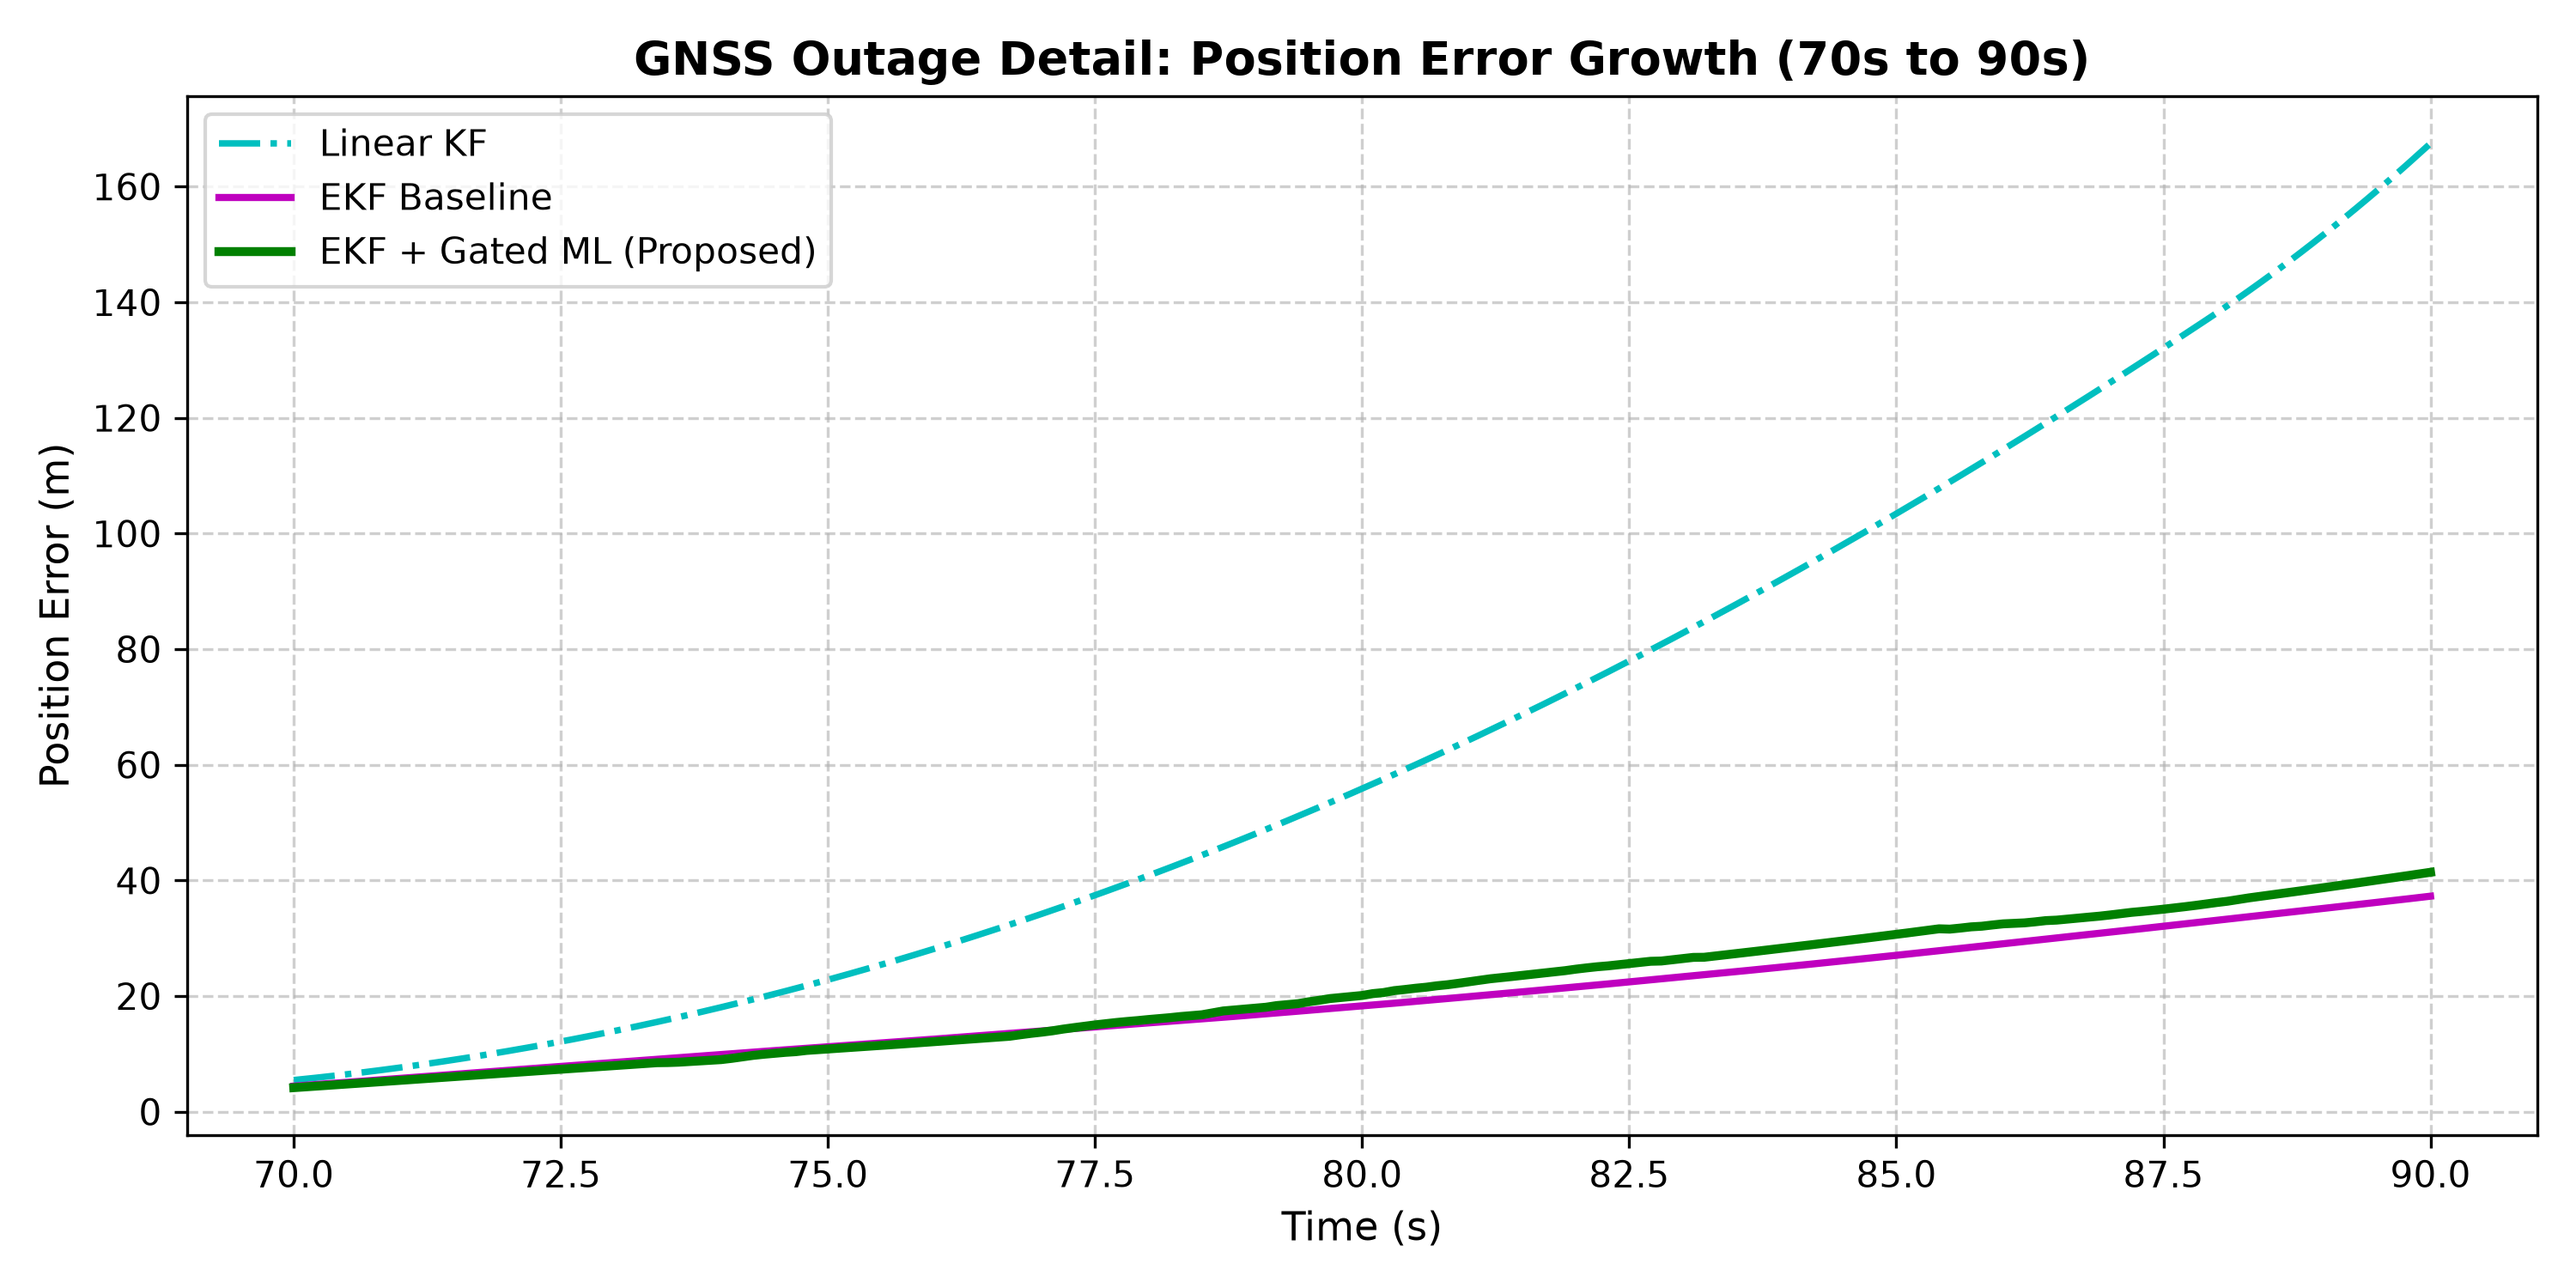
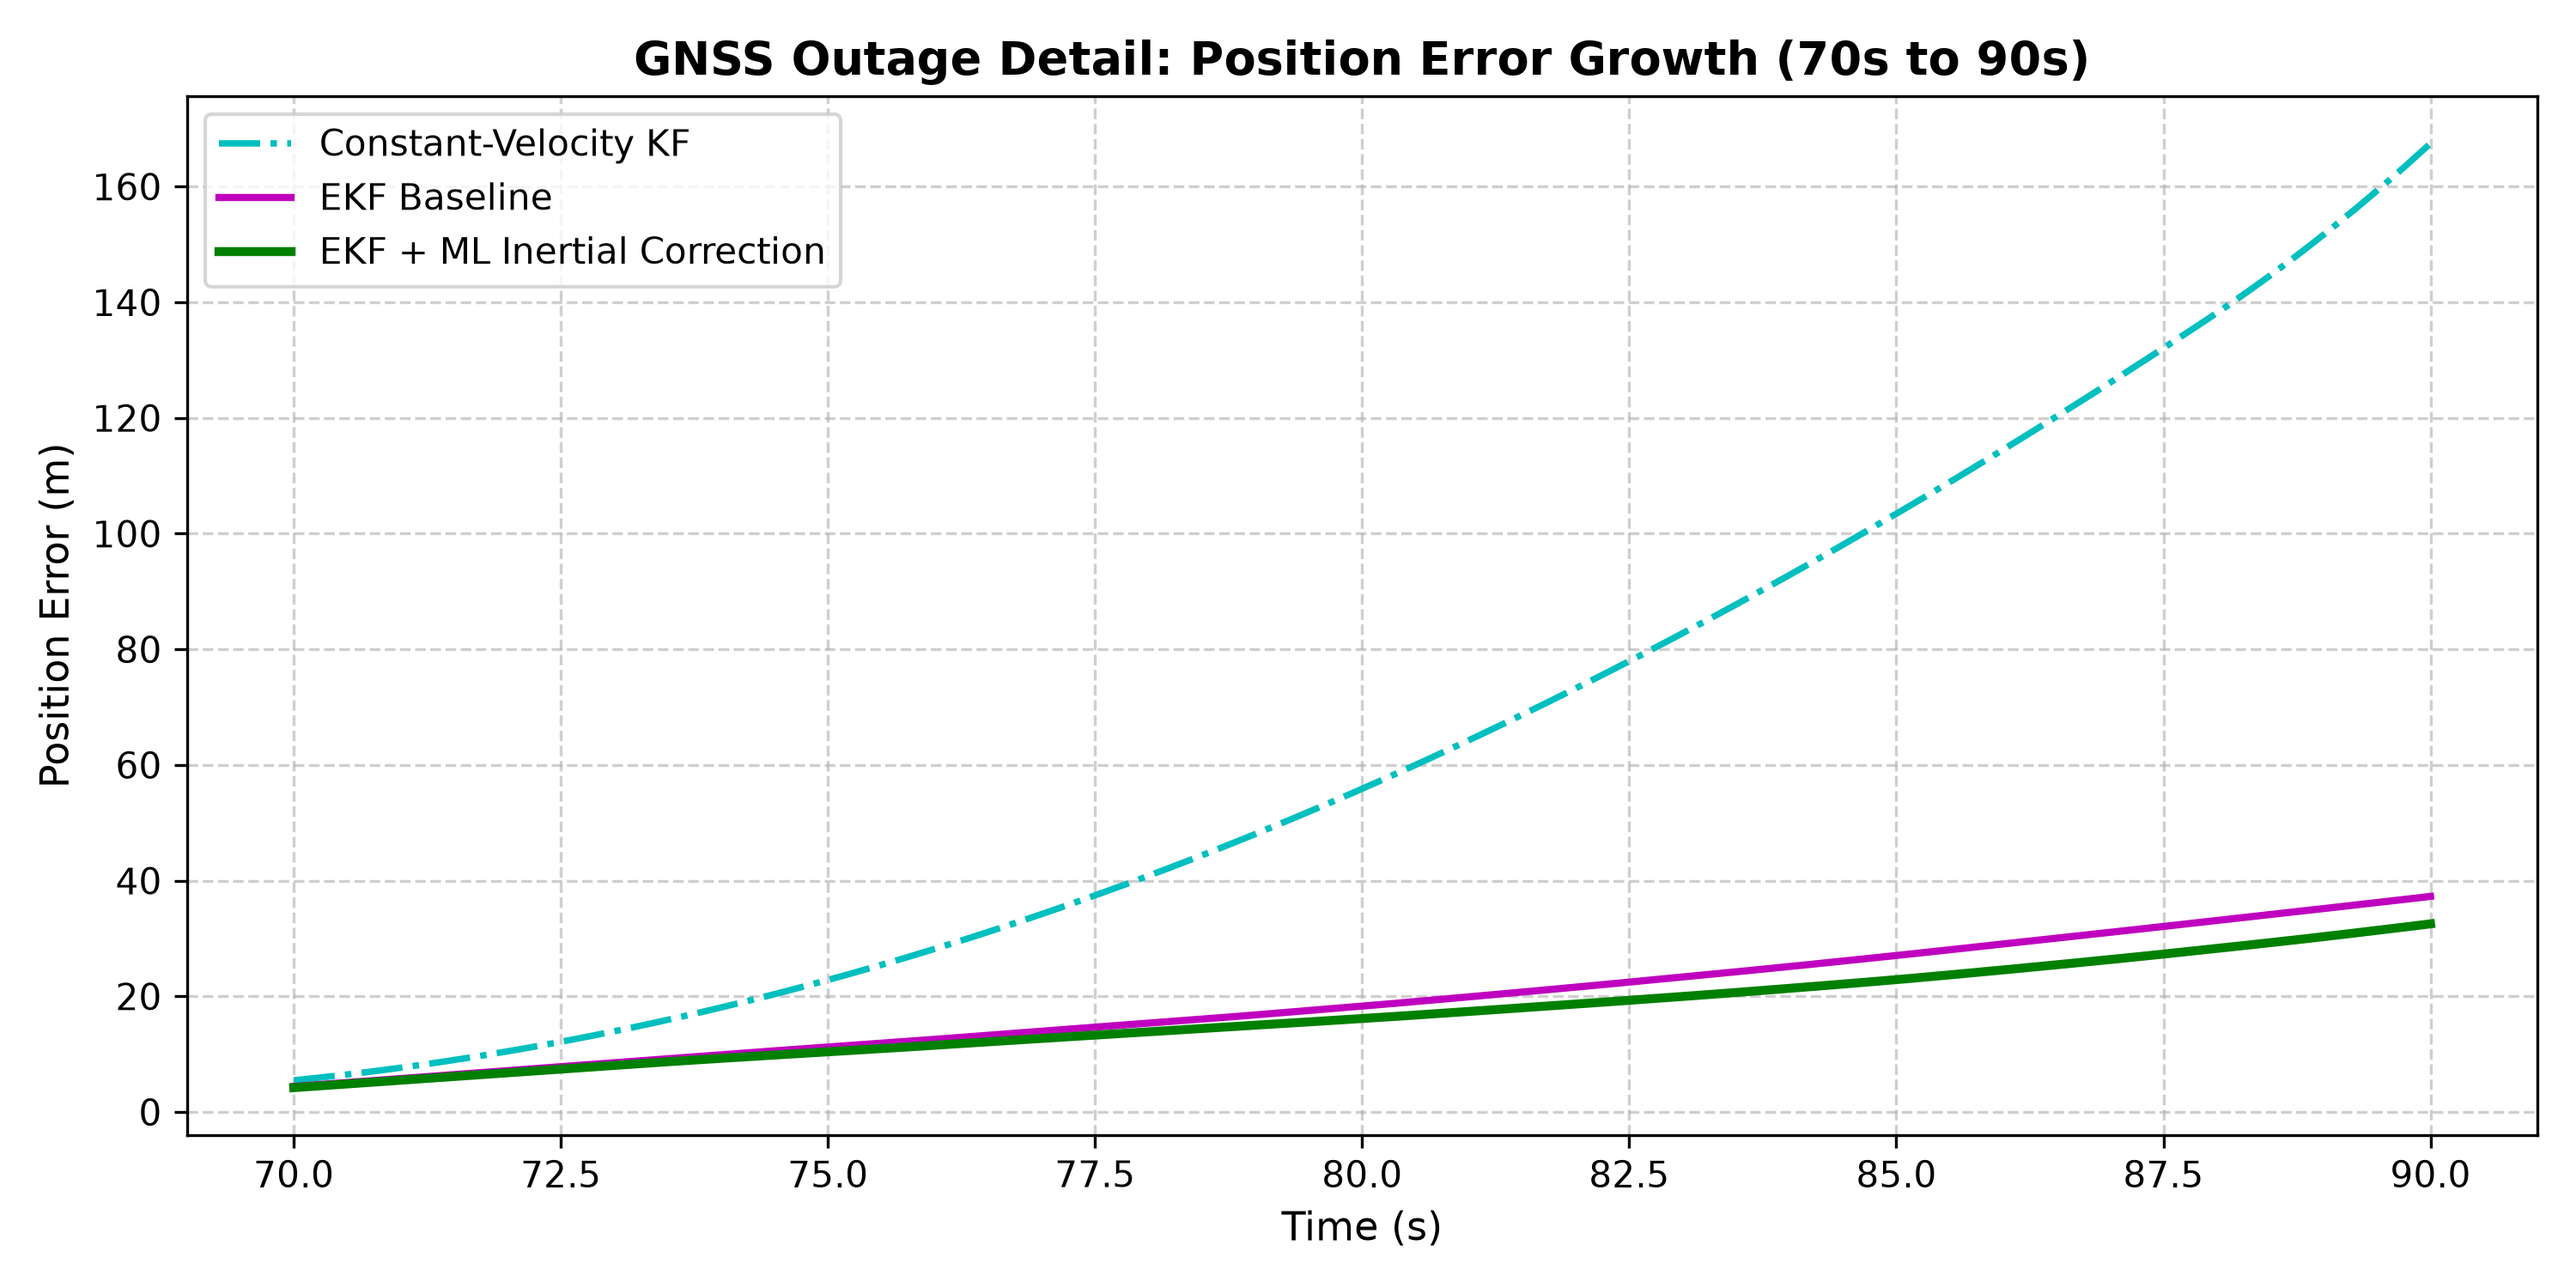
Finalize synthetic benchmark and ML inertial pipeline

Changed region(s): [[0.279, 0.6747, 0.961, 0.828], [0.155, 0.184, 0.341, 0.2147], [0.124, 0.092, 0.279, 0.1227]]

diff --git a/src/experiments/benchmark_comparison.py b/src/experiments/benchmark_comparison.py
@@ -457,7 +457,7 @@ def run_benchmark():
             "Outage RMSE (m)": np.sqrt(np.mean(err_dr[outage_mask] ** 2)),
             "Heading RMSE (deg)": np.degrees(np.sqrt(np.mean(((head_dr - true_heading + np.pi) % (2 * np.pi) - np.pi) ** 2)))
         },
-        "Linear KF": {
+        "Constant-Velocity KF": {
             "Overall RMSE (m)": np.sqrt(np.mean(err_kf ** 2)),
             "Max Error (m)": np.max(err_kf),
             "Final Error (m)": err_kf[-1],
@@ -513,13 +513,11 @@ def run_benchmark():
     plt.figure(figsize=(10, 8))
     plt.plot(true_x, true_y, "k-", linewidth=2.5, label="Ground Truth")
     plt.plot(pos_dr[:, 0], pos_dr[:, 1], "r--", alpha=0.7, label="Basic DR")
-    plt.plot(pos_kf[:, 0], pos_kf[:, 1], "c-.", alpha=0.8, label="Linear KF")
+    plt.plot(pos_kf[:, 0], pos_kf[:, 1], "c-.", alpha=0.8, label="Constant-Velocity KF")
     plt.plot(pos_ekf[:, 0], pos_ekf[:, 1], "m--", linewidth=1.8, label="EKF Baseline")
-    plt.plot(pos_ml[:, 0], pos_ml[:, 1], "g-", linewidth=2.0, label="EKF + Gated ML (Proposed)")
-    
+    plt.plot(pos_ml_pred[:, 0], pos_ml_pred[:, 1], "g-", linewidth=2.0, label="EKF + ML Inertial Correction")
     # Highlight outage segment
     plt.plot(true_x[outage_mask], true_y[outage_mask], "y-", linewidth=4.0, alpha=0.6, label="GNSS Outage Region")
-    
     plt.title("SUMARO: 2D Trajectory Comparison (GNSS Blackout 70–90s)", fontsize=13, fontweight="bold")
     plt.xlabel("X Position (m)", fontsize=11)
     plt.ylabel("Y Position (m)", fontsize=11)
@@ -529,30 +527,32 @@ def run_benchmark():
     plt.tight_layout()
     plt.savefig("reports/figures/trajectory_comparison.png", dpi=300)
     plt.close()
-    
+
     # Plot 2: Position Error vs Time
     plt.figure(figsize=(11, 5))
     plt.plot(time, err_dr, "r--", alpha=0.6, label="Basic DR")
-    plt.plot(time, err_kf, "c-.", alpha=0.8, label="Linear KF")
+    plt.plot(time, err_kf, "c-.", alpha=0.8, label="Constant-Velocity KF")
     plt.plot(time, err_ekf, "m-", linewidth=1.8, label="EKF Baseline")
-    plt.plot(time, err_ml, "g-", linewidth=2.2, label="EKF + Gated ML (Proposed)")
+    plt.plot(time, err_ml_pred, "g-", linewidth=2.2, label="EKF + ML Inertial Correction")
     plt.axvspan(70.0, 90.0, color="orange", alpha=0.25, label="GNSS Blackout (70–90s)")
     plt.title("Position Error vs. Time Across Navigation Pipelines", fontsize=13, fontweight="bold")
     plt.xlabel("Time (s)", fontsize=11)
     plt.ylabel("Horizontal Position Error (m)", fontsize=11)
-    plt.ylim(-5, min(max(err_ekf) * 1.15, 300))
+    # Compute global max for y-limit
+    global_max = max(err_dr.max(), err_kf.max(), err_ekf.max(), err_ml_pred.max())
+    plt.ylim(-5, min(global_max * 1.15, 800))
     plt.legend(loc="upper left", fontsize=10)
     plt.grid(True, linestyle="--", alpha=0.6)
     plt.tight_layout()
     plt.savefig("reports/figures/position_error_vs_time.png", dpi=300)
     plt.close()
-    
+
     # Plot 3: Outage Zoom
     plt.figure(figsize=(10, 5))
     t_out = time[outage_mask]
-    plt.plot(t_out, err_kf[outage_mask], "c-.", linewidth=1.8, label="Linear KF")
+    plt.plot(t_out, err_kf[outage_mask], "c-.", linewidth=1.8, label="Constant-Velocity KF")
     plt.plot(t_out, err_ekf[outage_mask], "m-", linewidth=2.0, label="EKF Baseline")
-    plt.plot(t_out, err_ml[outage_mask], "g-", linewidth=2.5, label="EKF + Gated ML (Proposed)")
+    plt.plot(t_out, err_ml_pred[outage_mask], "g-", linewidth=2.5, label="EKF + ML Inertial Correction")
     plt.title("GNSS Outage Detail: Position Error Growth (70s to 90s)", fontsize=13, fontweight="bold")
     plt.xlabel("Time (s)", fontsize=11)
     plt.ylabel("Position Error (m)", fontsize=11)
